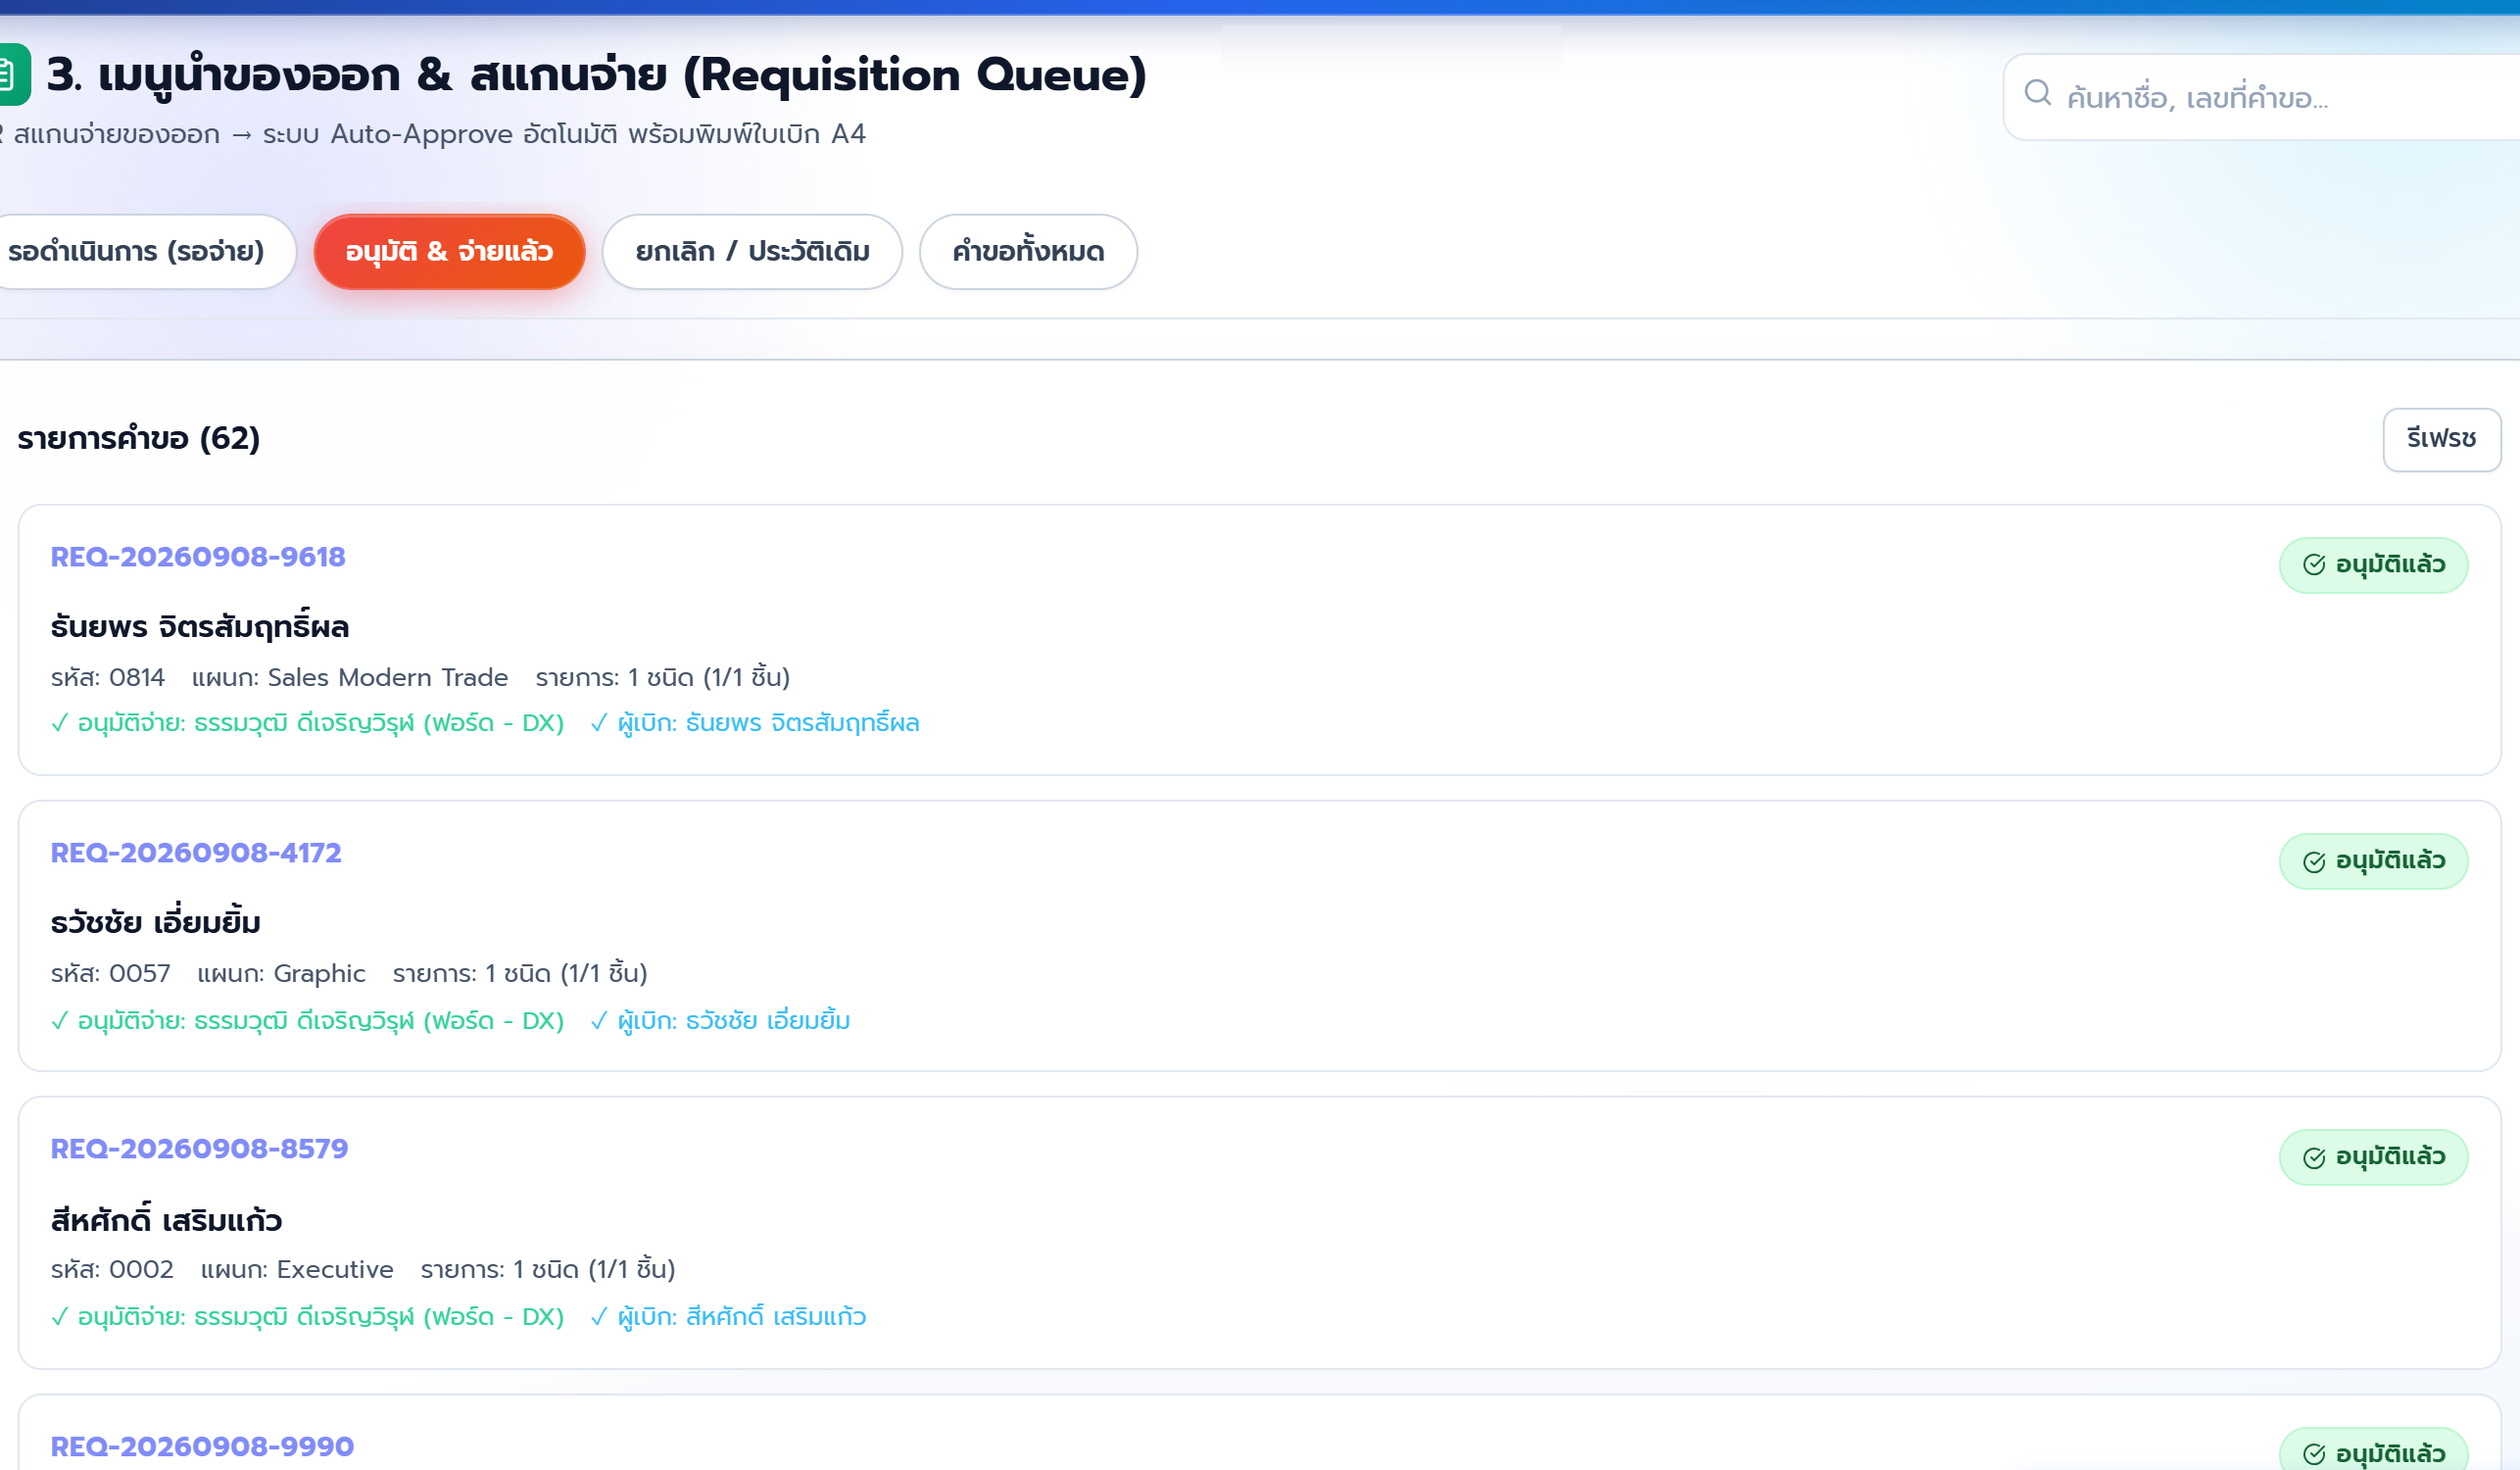
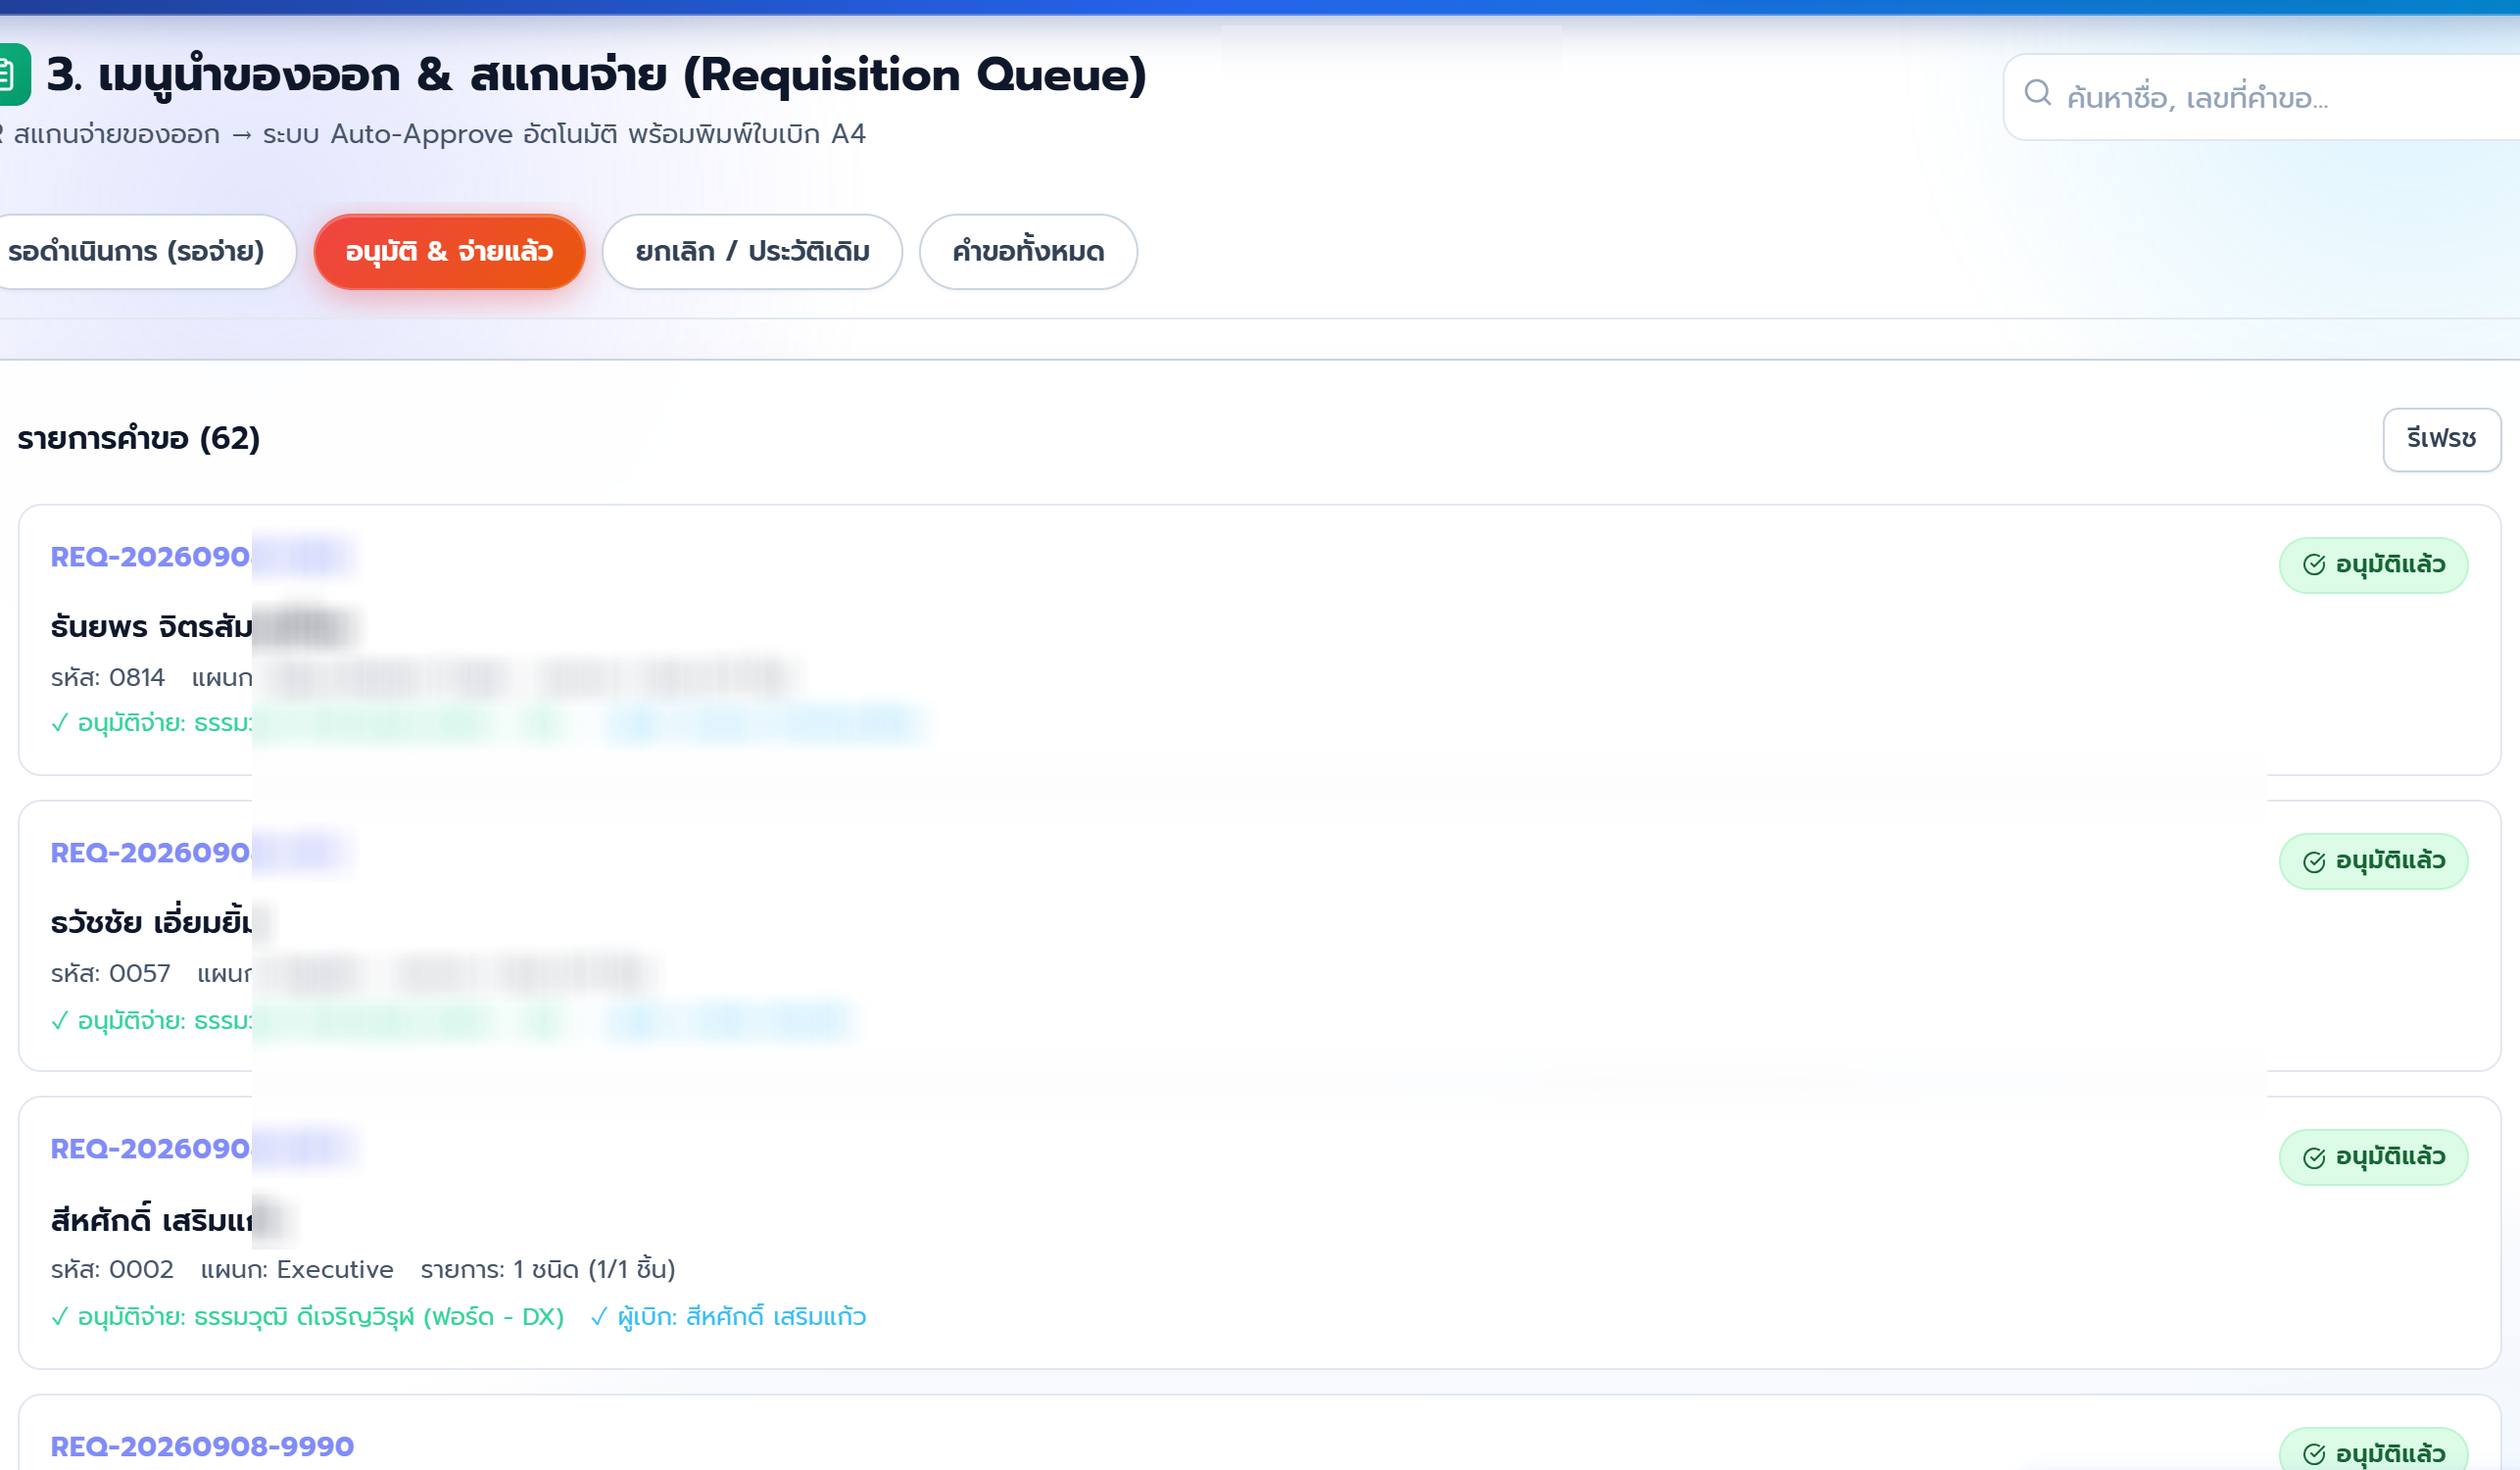
feat: complete HACO scanner screens, mask stock data, censor only dept names on sop library, remove activity gallery

diff --git a/website/src/data/portfolioData.ts b/website/src/data/portfolioData.ts
@@ -46,16 +46,8 @@ export const PROJECTS_BY_LANG: Record<Language, ProjectCaseStudy[]> = {
           caption: 'Edit / Revision SOP Screen: Document revision workflow displaying reviewer comments, change points, and re-submission to approver'
         },
         {
-          src: 'assets/sop-web-audit-censored.png',
-          caption: 'Audit & Approval Queue Screen (Censored): 3-tier reviewer checklist and digital approval queue (confidential document data masked)'
-        },
-        {
           src: 'assets/sop-web-library-censored.png',
-          caption: 'Document Library Archive Screen (Censored): Departmental folder library for company procedures (all internal document records censored for privacy)'
-        },
-        {
-          src: 'assets/sop-jmeter-100users.png',
-          caption: 'Apache JMeter Load Testing: Verified 100 concurrent users across 1,100 requests with 0% error rate'
+          caption: 'Document Library Archive Screen: Departmental folder library for company procedures (department names masked for privacy)'
         }
       ],
       shortDesc:
@@ -131,12 +123,32 @@ export const PROJECTS_BY_LANG: Record<Language, ProjectCaseStudy[]> = {
       subtitle: 'Mobile & desktop web application built on Google Apps Script and Gemini / Gemma Multi-Model AI for single & bulk business card extraction into Google Sheets and Drive',
       badge: 'Web App • Apps Script + Gemini AI',
       category: 'webapp',
-      coverImage: 'assets/haco-card-scanner.png',
-      coverFit: 'contain',
+      coverImage: 'assets/haco-scanner-home.png',
+      coverFit: 'cover',
       gallery: [
         {
           src: 'assets/haco-card-scanner.png',
-          caption: 'Live Web UI: Employee authentication and smart card capture interface for mobile & desktop browsers'
+          caption: 'Employee Authentication Screen: Secure staff ID and 4-digit verification login portal'
+        },
+        {
+          src: 'assets/haco-scanner-home.png',
+          caption: 'Home Menu & Mode Selection: Hub for Single AI Scan, Bulk Batch Upload, and History navigation'
+        },
+        {
+          src: 'assets/haco-scanner-single.png',
+          caption: 'Single AI Scan & Camera UI: Live viewfinder with Gemini 2.5 Flash / Gemma 3 OCR parser'
+        },
+        {
+          src: 'assets/haco-scanner-bulk.png',
+          caption: 'Bulk Batch Card Upload Queue: Multi-card processing pipeline with automated Google Sheets sync'
+        },
+        {
+          src: 'assets/haco-scanner-dashboard.png',
+          caption: 'Analytics Dashboard: Department scan frequency charts, user ranks, and scan volume metrics'
+        },
+        {
+          src: 'assets/haco-scanner-history.png',
+          caption: 'Search & Historical Card Records: Searchable table of archived contacts with thumbnail previews'
         }
       ],
       shortDesc:
@@ -263,16 +275,8 @@ export const PROJECTS_BY_LANG: Record<Language, ProjectCaseStudy[]> = {
           caption: 'หน้าแก้ไขเอกสาร SOP เมื่อถูกตีกลับ (Revision): แสดงข้อเสนอแนะจากผู้ตรวจ จุดที่ต้องแก้ไข และปุ่มส่งกลับผู้ลงนามเดิม'
         },
         {
-          src: 'assets/sop-web-audit-censored.png',
-          caption: 'หน้าตรวจอนุมัติและประทับตราดิจิทัล (เซ็นเซอร์ข้อมูล): ระบบคิวตรวจสอบความครบถ้วน ลายเซ็น 3 ระดับ และการประทับตราดิจิทัล (เซ็นเซอร์ข้อมูลเพื่อความปลอดภัย)'
-        },
-        {
           src: 'assets/sop-web-library-censored.png',
-          caption: 'หน้าคลังเอกสาร SOP (เซ็นเซอร์ข้อมูลคลังทั้งหมด): คลังจัดเก็บเอกสารแยกตามแผนกสำหรับพนักงาน (เซ็นเซอร์ข้อมูลเอกสารทั้งหมด 100% เพื่อความปลอดภัย)'
-        },
-        {
-          src: 'assets/sop-jmeter-100users.png',
-          caption: 'ผลทดสอบ Apache JMeter: ทดสอบผู้ใช้งานพร้อมกัน 100 Users ยิง 1,100 Requests ผ่าน 100% (0% Error)'
+          caption: 'หน้าคลังเอกสาร SOP (Document Library): คลังจัดเก็บเอกสารแยกตามแผนกสำหรับพนักงาน (เซ็นเซอร์เฉพาะชื่อแผนกเพื่อความปลอดภัย)'
         }
       ],
       shortDesc:
@@ -348,12 +352,32 @@ export const PROJECTS_BY_LANG: Record<Language, ProjectCaseStudy[]> = {
       subtitle: 'เว็บแอปบนมือถือและคอมพิวเตอร์ พัฒนาด้วย Google Apps Script ผสาน Gemini 2.5 Flash / Gemma 3 Multi-Model AI สกัดข้อมูลนามบัตรบันทึกเข้า Google Sheets และ Drive',
       badge: 'Web App • Apps Script + Gemini AI',
       category: 'webapp',
-      coverImage: 'assets/haco-card-scanner.png',
-      coverFit: 'contain',
+      coverImage: 'assets/haco-scanner-home.png',
+      coverFit: 'cover',
       gallery: [
         {
           src: 'assets/haco-card-scanner.png',
-          caption: 'หน้าจอเว็บจริง: ระบบยืนยันตัวตนพนักงานและอินเทอร์เฟซสแกนนามบัตรอัจฉริยะ รองรับทั้งเบราว์เซอร์มือถือและคอมพิวเตอร์'
+          caption: 'หน้าจอเข้าสู่ระบบ (Staff Authentication): ระบบยืนยันตัวตนพนักงานด้วยรหัสประจำตัวและรหัสผ่าน 4 หลัก'
+        },
+        {
+          src: 'assets/haco-scanner-home.png',
+          caption: 'เมนูหลักและเลือกโหมดการใช้งาน: หน้าเลือกระหว่างสแกนเดี่ยว (Single Scan), สแกนชุด (Bulk) และดูประวัติ'
+        },
+        {
+          src: 'assets/haco-scanner-single.png',
+          caption: 'หน้าสแกนกล้อง AI (Single Scan): หน้าจอกล้องถ่ายภาพนามบัตรแบบเรียลไทม์ พร้อมตัวประมวลผล Gemini 2.5 Flash / Gemma 3'
+        },
+        {
+          src: 'assets/haco-scanner-bulk.png',
+          caption: 'ระบบสแกนนามบัตรเป็นชุด (Bulk Batch Queue): หน้าอัปโหลดนามบัตรหลายใบพร้อมกันและประมวลผลเข้า Google Sheets'
+        },
+        {
+          src: 'assets/haco-scanner-dashboard.png',
+          caption: 'แดชบอร์ดสถิติการใช้งาน (Analytics Dashboard): กราฟแสดงจำนวนการสแกนรายวันและจัดอันดับพนักงานผู้ใช้งานสูงสุด'
+        },
+        {
+          src: 'assets/haco-scanner-history.png',
+          caption: 'ประวัติและระบบค้นหานามบัตรย้อนหลัง: ตารางค้นหาข้อมูลผู้ติดต่อที่สแกนแล้ว พร้อมภาพพรีวิวนามบัตร'
         }
       ],
       shortDesc:

diff --git a/website/src/App.tsx b/website/src/App.tsx
@@ -4,7 +4,6 @@ import {
   Globe
 } from 'lucide-react';
 import ProjectsShowcase from './components/ProjectsShowcase';
-import ActivityGallery from './components/ActivityGallery';
 import CaseStudyModal from './components/CaseStudyModal';
 import { ProjectCaseStudy, Language, PROJECTS_BY_LANG } from './data/portfolioData';
 
@@ -90,7 +89,6 @@ export default function App() {
           lang={lang}
           onSelectProject={(proj) => setSelectedProjectId(proj.id)}
         />
-        <ActivityGallery lang={lang} />
       </main>
 
       {/* Footer */}
